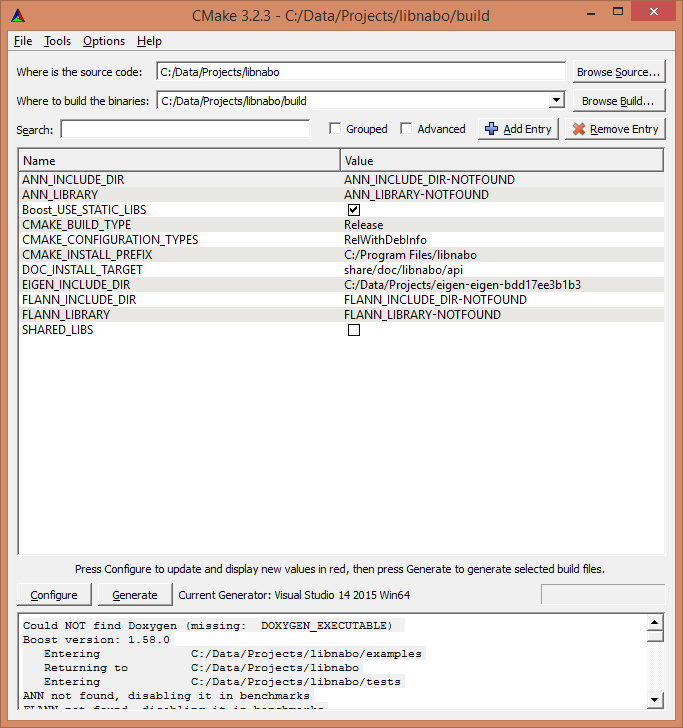
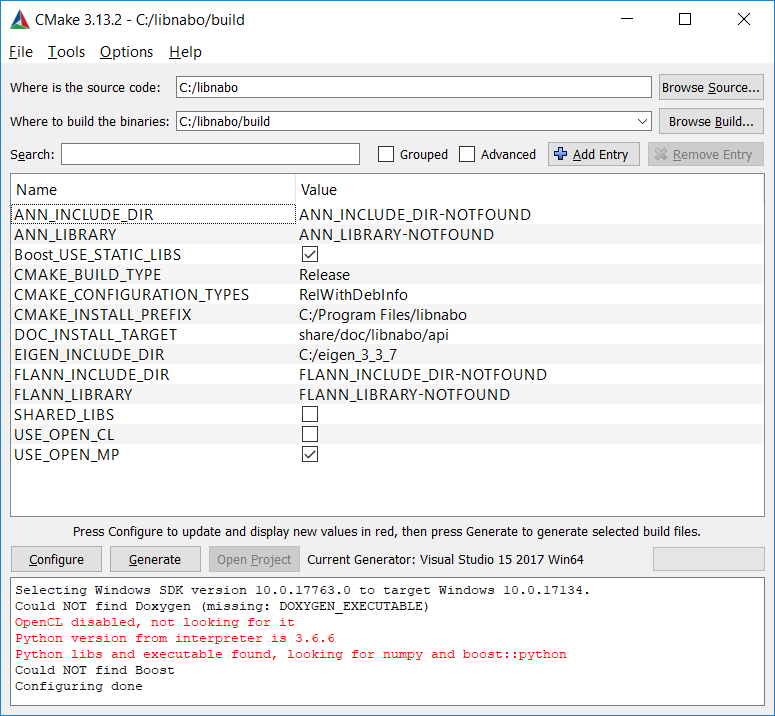
Updated tutorial.

diff --git a/doc/CompilationWindows.md b/doc/CompilationWindows.md
@@ -10,16 +10,16 @@
 If you are used to development project, here is what you need:
 
 
-| Name   | Link | Version <br> (Tested March 29, 2014)|
+| Name   | Link | Version <br> (Tested December 29, 2018)|
 | ------ | ---- | ------------- |
-| Windows |     | 7              |
-|  git | <http://windows.github.com/> | v1.0 |
-|  libpointmatcher sources   | <https://github.com/ethz-asl/libpointmatcher> | |
+| Windows |  | 10 |
+|  git | <https://git-scm.com/> | v2.20.1 |
+|  libpointmatcher sources | <https://github.com/ethz-asl/libpointmatcher> |  |
 | libnabo sources | <https://github.com/ethz-asl/libnabo> |  |
-| Visual Studio |  <http://www.microsoft.com/visualstudio/eng/downloads>  | Visual Studio 2012 Express for Windows Desktop |
-| CMake | <http://www.cmake.org/cmake/resources/software.html> | cmake-2.8.11.2-win32-x86.exe|
-| Eigen 3 | <http://eigen.tuxfamily.org/index.php?title=Main_Page#Download>  |v3.2.0 |
-| Boost | <http://www.boost.org/users/download/> | v1.54.0 |
+| Visual Studio |  <https://visualstudio.microsoft.com/>  | Visual Studio 2017 15.9.4 |
+| CMake | <https://cmake.org/> | v3.13.2 |
+| Eigen 3 | <http://eigen.tuxfamily.org/index.php> | v3.3.7 |
+| Boost | <https://www.boost.org/> | v1.69.0 |
 
 The rest of this tutorial will guide you through the different requirements step by step.
 
@@ -28,20 +28,22 @@ The rest of this tutorial will guide you through the different requirements step
 1. Go to your Boost source directory, and do:
 
     ```
-    $ bootstrap
-    $ b2 install --prefix=build address-model=64
+    $ .\bootstrap.bat
+    $ .\b2.exe install --prefix=build address-model=64
     ```
 
 1. It may take a while to finish.
 
 
 ### Build libnabo
+You may need to install grep to build libnabo. You can get the Windows version <a href=”http://gnuwin32.sourceforge.net/packages/grep.htm”>here</a>.
+
 1. Start **CMake GUI**
 
 1. Add the path of your libnabo source folder in the field _Where is the source code_.
 1. Add a folder named build in the field _Where to build the binary_. This will allow you to do out-of-source compilation.
 1. Click on the button Configure
-    1. Select the generator for the project (Visual Studio 11 Win 64)
+    1. Select the generator for the project (Visual Studio 15 2017 Win64)
     1. Typically you will select "Use default native compilers" for the generator
     1. Click "Finish"
     1. An error will be reported, because CMake does not know yet where to find the libraries. The next steps will tell it where to find them.
@@ -54,12 +56,29 @@ The rest of this tutorial will guide you through the different requirements step
 
 1. Change the variable **CMAKE_CONFIGURATION_TYPES** to `RelWithDebInfo`
 
-1. Click on the button Configure again, then on Generate. Here is an example of what your CMake should look like:
+1. Click on the button Configure again
+    1. You might get the following error:
+
+    ```
+    invalid_matrix_types.obj : **error** LNK2019: unresolved external symbol "public: static struct Nabo::NearestNeighbourSearch<float,class Eigen::Matrix<float,-1,-1,0,-1,-1> > * __cdecl Nabo::NearestNeighbourSearch<float,class Eigen::Matrix<float,-1,-1,0,-1,-1> >::create(class Eigen::Matrix<float,-1,-1,0,-1,-1> const &,int,enum Nabo::NearestNeighbourSearch<float,class Eigen::Matrix<float,-1,-1,0,-1,-1> >::SearchType,unsigned int,struct Nabo::Parameters const &)" (?create@?$NearestNeighbourSearch@MV?$Matrix@M$0?0$0?0$0A@$0?0$0?0@Eigen@@@Nabo@@SAPEAU12@AEBV?$Matrix@M$0?0$0?0$0A@$0?0$0?0@Eigen@@HW4SearchType@12@IAEBUParameters@2@@Z) referenced in function "int __cdecl testFunction<class Eigen::Matrix<float,-1,-1,0,-1,-1> >(void)" (??$testFunction@V?$Matrix@M$0?0$0?0$0A@$0?0$0?0@Eigen@@@@YAHXZ) [C:\libnabo\build_libnabo_vs2017_x64\tests\CMakeFiles\CMakeTmp\cmTC_b6580.vcxproj]
+
+    C:\libnabo\build_libnabo_vs2017_x64\tests\CMakeFiles\CMakeTmp\Debug\cmTC_b6580.exe : fatal **error** LNK1120: 1 unresolved externals [C:\libnabo\build_libnabo_vs2017_x64\tests\CMakeFiles\CMakeTmp\cmTC_b6580.vcxproj]
+
+
+      1 Warning(s)
+
+      2 Error(s)
+    ```
+
+    If this is the case, remove the line `add_subdirectory(tests)` from libnabo/CMakeLists.txt
+    1. Press Configure again
+
+1. Click on the button Generate. Here is an example of what your CMake should look like:
 
 	![alt text](images/win_cmake_libnabo.png "CMake libnabo")
 
 
-1. Locate the Microsoft Visual Studio Solution file (libnabo.sln) in the your build folder and open it. Visual Studio should open.
+1. Locate the Microsoft Visual Studio Solution file (libnabo.sln) in your build folder and open it. Visual Studio should open.
 
 1. Build the solution: BUILD -> Build Solution
 
@@ -71,27 +90,30 @@ The rest of this tutorial will guide you through the different requirements step
 
     (Note that the flag /m:X defines the number of cores msbuild will use while building the solution.)
 
+    1. You might get the following error:
+
+    ```
+    cl : Command line error D8021: invalid numeric argument '/Wextra'
+    ```
+
+    If this is the case, remove the line `add_definitions(-Wall -Wextra)` from libnabo/CMakeLists.txt, go back to CMake GUI and press Configure and Generate again
+    1. Rebuild the solution in Visual Studio: BUILD -> Rebuild Solution
+
 
 ### Build libpointmatcher
 1. Start **CMake GUI**, follow the same steps to configure the source and build folders for _libpointmatcher_, then click the Configure button.
 
-1. Add the following boolean variable and set it to true: Boost_USE_STATIC_LIBS
+1. Locate _your eigen folder_ in the field **EIGEN_INCLUDE_DIR**
 
-1. Add the following PATH variable and set it to _(your Boost folder)_/build: BOOST_ROOT
+1. Add the following boolean variable and set it to true: **Boost_USE_STATIC_LIBS**
+
+1. Add the following PATH variable and set it to _(your Boost folder)_/build: **BOOST_ROOT**
+
+1. Add the following PATH variable and set it to _(your libnabo source folder)_: **NABO_INCLUDE_DIR**
+
+1. Add the following FILEPATH variable and set it to _(your libnabo source folder)_/build/RelWithDebInfo/nabo.lib: **NABO_LIBRARY**
 
 1. Change the variable **CMAKE_CONFIGURATION_TYPES** to `RelWithDebInfo`
-
-1. You will need to manually add and set the following variables:
-
-    - **EIGEN_INCLUDE_DIR** (PATH type) to _(your eigen source folder)_
-    - **NABO_INCLUDE_DIR** (PATH type) to _(your libnabo source folder)_
-    - **NABO_LIBRARY** (FILEPATH type) to _(your libnabo source folder)_/build/RelWithDebInfo/nabo.lib
-    - **libnabo_DIR** will automatically be set to your libnabo build folder
-    - **yaml-cpp_INCLUDE_DIRS** (PATH type) to _(your yaml-cpp source folder)_
-    - **yaml-cpp_LIBRARIES** (FILEPATH type) to _(your yaml-cpp source folder)_/build/RelWithDebInfo/libyaml-cppmd.lib
-    - **GTEST_INCLUDE_DIR** (PATH type) to _(your gtest source folder)_
-    - **GTEST_LIBRARY** (FILEPATH type) to _(your gtest source folder)_/build/RelWithDebInfo/gtest.lib
-    - **GTEST_MAIN_LIBRARY** (FILEPATH type) to _(your gtest source folder)_/build/RelWithDebInfo/gtest_main.lib
 
 1. Click on the button Configure, then on Generate. Here is an example of what your CMake should look like:
 
